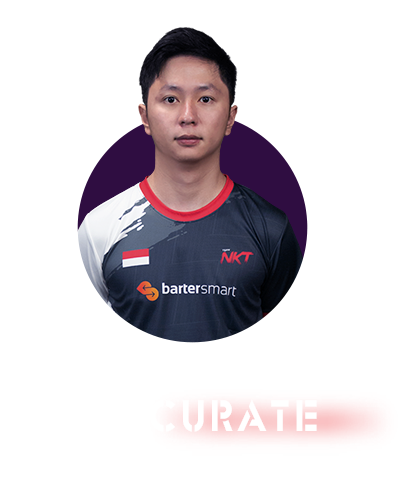
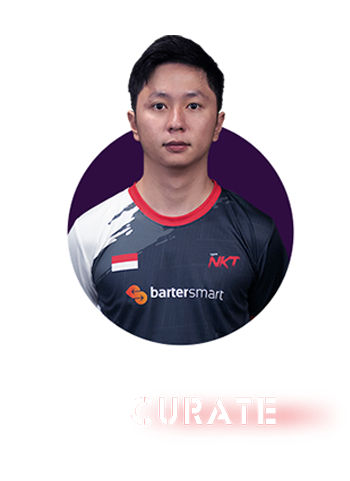
final commit

Changed region(s): [[0.1714, 0.0585, 0.8571, 0.7307], [0.4857, 0.8184, 0.8571, 0.9353]]

diff --git a/src/components/players.js b/src/components/players.js
@@ -1,24 +1,108 @@
-import React from 'react'
-import player1 from '../img/plr1.png'
-import player2 from '../img/plr2.png'
-import player3 from '../img/plr3.png'
-import player4 from '../img/plr4.png'
-import player5 from '../img/plr5.png'
+import React, { useEffect, useState } from 'react'
+import player1 from '../img/plr2.png'
+import player2 from '../img/plr3.png'
+import player3 from '../img/plr4.png'
+import player4 from '../img/plr5.png'
+import player5 from '../img/plr6.png'
 import { nanoid } from 'nanoid'
-import player6 from '../img/plr6.png'
+import player6 from '../img/plr1.png'
+import axios from 'axios';
+import Swal from 'sweetalert2'
+
 
 export default function Players() {
-    const collection = [player1, player2, player3, player4, player5, player6]
-    const players = collection.map((player)=> {
-        return(
+
+  let [players, setPlayers] = useState([]);
+  
+  players.sort((a,b)=>{
+    return a.id - b.id
+  })
+
+
+
+  const [selectedPlayer, setSelectedPlayer] = useState({});
+  
+
+  const sendVote = (id) => {
+    setSelectedPlayer(players.filter(player => player.id === id)[0]);
+    
+
+  }
+  
+
+  useEffect(async () => {
+    await axios.get('https://strapi.monnom.mn/mesas')
+      .then(res => {
         
-            <img src={player} alt="" key={nanoid()} className="inline" width="300" />
-        
-        )
-    }) 
+        setPlayers(res.data.map(player =>{ 
+          return ({
+          id: player.id,
+          plr: player.image.url,
+          score: player.vote,
+          name: player.name
+        })}))
+      })
+      .catch(() => console.log("error occured during initialization"))
+  }, [])
+
+
+  useEffect(() => {
+    console.log(selectedPlayer)
+    if (selectedPlayer !== null) {
+      setPlayers(prevPlayers => prevPlayers.map(player => {
+        if (player.id === selectedPlayer.id) {
+    
+          return {
+            ...selectedPlayer,
+            score: selectedPlayer.score,
+          }
+        } else {
+      
+          return player;
+        }
+      }))
+    }
+    
+    
+  }, [selectedPlayer])
+
+  
+  const onSubmit = async () => {
+    await axios.put(`https://strapi.monnom.mn/mesas/${selectedPlayer.id}`, { vote: selectedPlayer.score + 1  })
+      .then( res => {
+        console.log(res.data)
+      }).catch(err => {console.log(err)})
+      window.location.reload();
+      
+      
+  }
+
+
   return (
-    <div>
-        {players}
+
+    <div className="">
+      <div className="flex justify-evenly">
+        {
+          players.map((player, index) => {
+            return (
+              <div className="" key={index}>
+                <button onClick={() => sendVote(player.id)} className={`text-white focus:opacity-25 transition ease-in duration-100  py-2 px-6  align-middle`} >
+                <img src={player.plr} alt="" key={nanoid()} className= {` h-auto`} />
+                </button>
+                <p className="text-white text-4xl custom-font ">{player.name}</p>
+                <p className='text-white text-4xl'>{player.score}</p>
+                
+
+              </div>
+            )
+          })
+        }
+      </div>
+      <div className="flex justify-center mt-5">
+
+        <button className={`bg-red-500 flex p-2 px-8 text-4xl text-center transition ease-in duration-100 rounded-md hover:opacity-50 text-white`} onClick={() => onSubmit()}>Санал өгөх</button>
+      </div>
+
     </div>
   )
 }

diff --git a/src/App.js b/src/App.js
@@ -6,15 +6,17 @@ import footer from './img/Footer.png'
 function App() {
 
   return (
-    <div className="App">
-      <div className = "flex items-end">
-      <img src={logo} alt="" width="200" className="ml-24" />
+    <div className="App ">
+      <div className="">
+      <div className = "flex items-end ">
+      <img src={logo} alt="" width="200" className="" />
       <h1 className=" text-7xl ml-10 mb-10 font-bold text-white">ALPHA PLAYER VOTE</h1>
       </div>
       <Players/>
-      <div className="flex justify-end mt-40">
-        <img src={footer} alt="" />
       </div>
+      <footer className="flex justify-end mt-48">
+        <img src={footer} alt="" className="w-auto" />
+      </footer>
     </div>
   );
 }

diff --git a/src/api/api.js b/src/api/api.js
@@ -1,0 +1,15 @@
+import axios from "axios";
+
+
+async function api(){
+    const response = await axios.get('https://strapi.monnom.mn/mesas').catch(() => console.log("error occured during initialization"))
+    let data = await response.data
+    console.log(data)
+    return data
+}
+async function put(player){
+    const response = await axios.put(`https://strapi.monnom.mn/mesas/${player.id}`, {vote: player.score + 1})
+}
+
+export default 0
+export {api, put}

diff --git a/src/index.css b/src/index.css
@@ -1,8 +1,14 @@
 @tailwind base;
 @tailwind components;
 @tailwind utilities;
+@import url('https://fonts.googleapis.com/css2?family=Allerta+Stencil&display=swap');
 
 body{
   background-image: url('./img/ABckground.png');
   background-repeat: no-repeat;
+  background-size: cover;
+  
+}
+.custom-font{
+  font-family:'Allerta Stencil' , sans-serif;
 }
